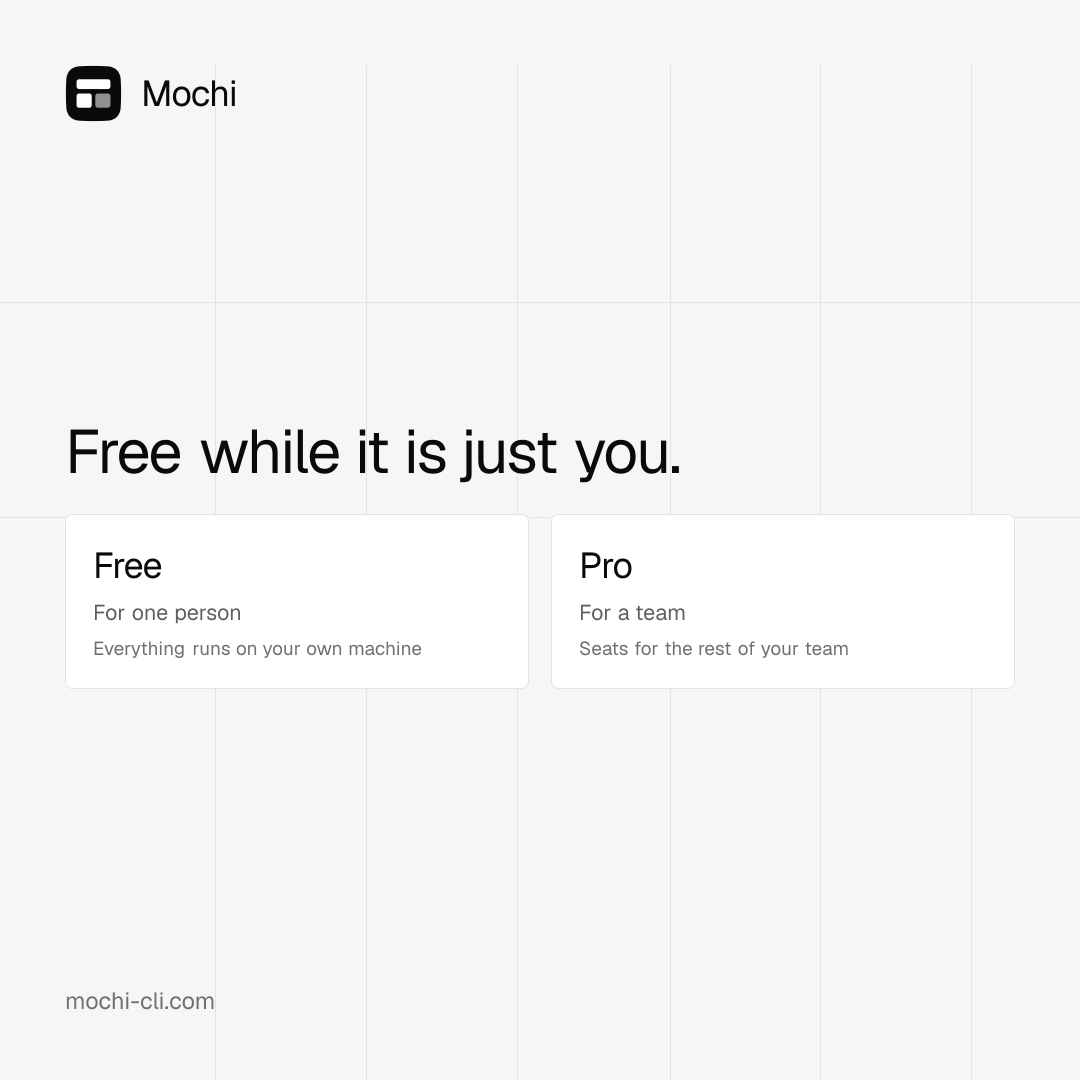
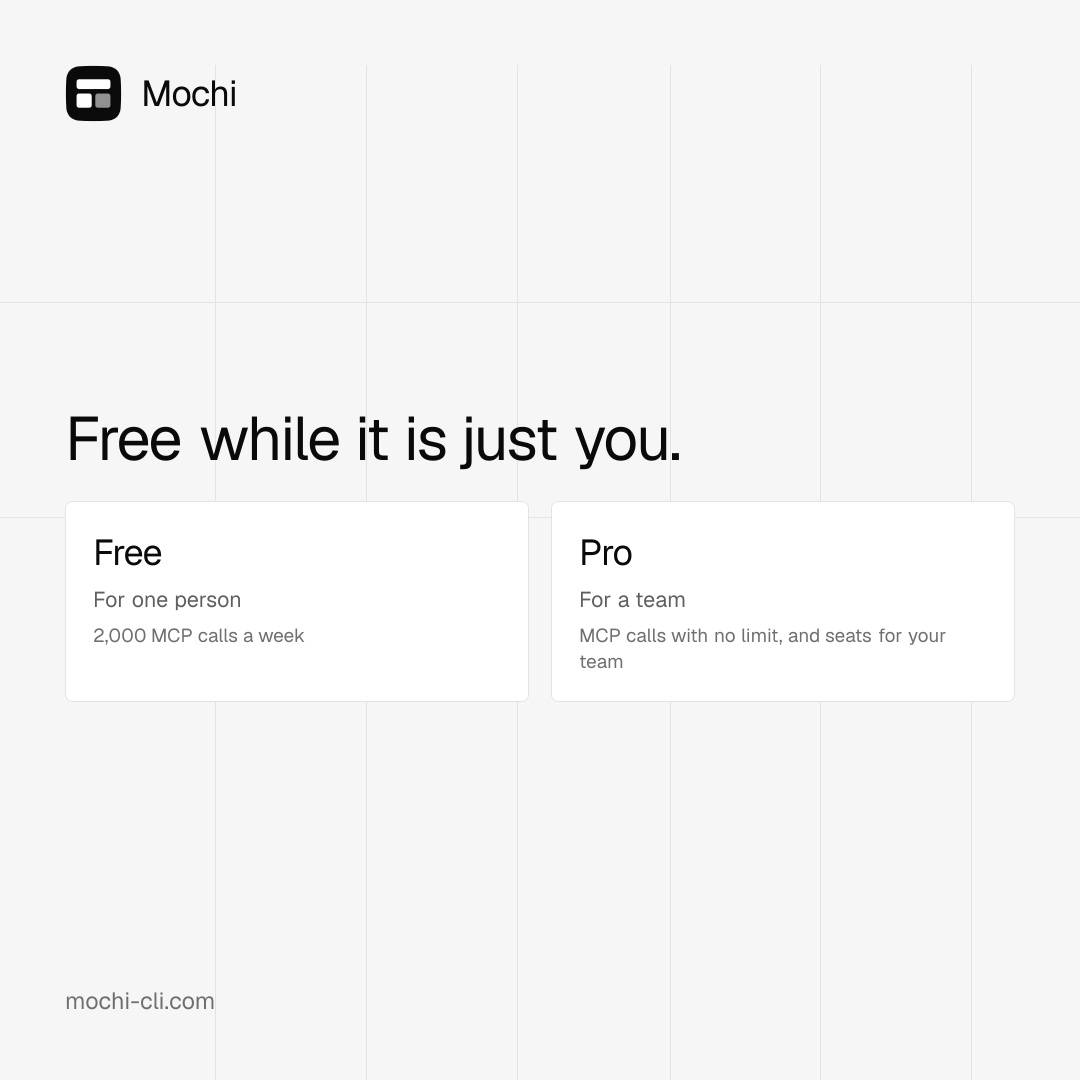
Say on the pricing what actually separates Free from Pro
The plans read as though the only difference was other people, which is not
what the product enforces. The app meters MCP calls: PLAN_LIMITS in
entitlement.ts is 2,000 a week on free and null — no limit — on pro. That is
the line that decides which plan somebody is on, and it was nowhere on the
page.

It now leads both feature lists, and the section subtitle names the figure
rather than implying everything is free without qualification. Same on the
film's closing card and the pricing poster, all in step because they read
the same numbers.

The figure is the app's, not one invented for the page. If the limit moves
in entitlement.ts, these strings have to move with it.

Written for all seven locales.

Changed region(s): [[0.0611, 0.3667, 0.6417, 0.4583], [0.5194, 0.4889, 0.8861, 0.6417], [0.0917, 0.4889, 0.3972, 0.6111]]

diff --git a/src/lib/i18n.ts b/src/lib/i18n.ts
@@ -479,7 +479,7 @@ const en: Messages = {
   },
   price: {
     title: "Free while it is just you",
-    sub: "Everything on this page works without paying. Pro is for when other people need to be in there with you.",
+    sub: "Everything on this page works without paying, up to 2,000 MCP calls a week. Pro lifts that limit and adds seats for the rest of your team.",
     free: "Free",
     perMonth: "per month",
     perYear: "per year",
@@ -487,8 +487,8 @@ const en: Messages = {
     soon: "Coming soon",
     note: "Billed through Polar. Cancel whenever you like, and your data stays on your machine either way.",
     plans: [
-      { tagline: "For one person", features: ["Everything runs on your own machine", "As many workspaces and tables as you like", "Full history, and undo that goes back", "Connect Claude, Codex or OpenCode"] },
-      { tagline: "For a team", features: ["Everything in Free", "Seats for the rest of your team", "Shared workspaces that stay in step", "Email support"] },
+      { tagline: "For one person", features: ["2,000 MCP calls a week", "Everything runs on your own machine", "As many workspaces and tables as you like", "Full history, and undo that goes back", "Connect Claude, Codex or OpenCode"] },
+      { tagline: "For a team", features: ["MCP calls with no limit", "Everything in Free", "Seats for the rest of your team", "Shared workspaces that stay in step", "Email support"] },
     ],
   },
   cta: { title: "Ready to get your data in order?", sub: "Download Mochi and start in about a minute. Nothing to set up, nothing to sign up for.", button: "Get started →" },
@@ -825,7 +825,7 @@ const es: Messages = {
   },
   price: {
     title: "Gratis mientras seas tú solo",
-    sub: "Todo lo de esta página funciona sin pagar. Pro es para cuando otras personas tienen que estar dentro contigo.",
+    sub: "Todo lo de esta página funciona sin pagar, hasta 2.000 llamadas MCP por semana. Pro quita ese límite y añade plazas para el resto del equipo.",
     free: "Gratis",
     perMonth: "al mes",
     perYear: "al año",
@@ -833,8 +833,8 @@ const es: Messages = {
     soon: "Muy pronto",
     note: "Se cobra a través de Polar. Cancela cuando quieras: tus datos se quedan en tu máquina de todas formas.",
     plans: [
-      { tagline: "Para una persona", features: ["Todo funciona en tu propio ordenador", "Tantos espacios y tablas como quieras", "Historial completo, y deshacer que llega lejos", "Conecta Claude, Codex u OpenCode"] },
-      { tagline: "Para un equipo", features: ["Todo lo de Gratis", "Plazas para el resto del equipo", "Espacios compartidos que van al día", "Soporte por correo"] },
+      { tagline: "Para una persona", features: ["2.000 llamadas MCP por semana", "Todo funciona en tu propio ordenador", "Tantos espacios y tablas como quieras", "Historial completo, y deshacer que llega lejos", "Conecta Claude, Codex u OpenCode"] },
+      { tagline: "Para un equipo", features: ["Llamadas MCP sin límite", "Todo lo de Gratis", "Plazas para el resto del equipo", "Espacios compartidos que van al día", "Soporte por correo"] },
     ],
   },
   cta: { title: "¿Listo para ordenar tus datos?", sub: "Descarga Mochi y empieza en un minuto. Nada que configurar, nada que registrar.", button: "Empezar →" },
@@ -1171,7 +1171,7 @@ const fr: Messages = {
   },
   price: {
     title: "Gratuit tant que vous êtes seul",
-    sub: "Tout ce que montre cette page marche sans payer. Pro sert quand d'autres personnes doivent y être avec vous.",
+    sub: "Tout ce que montre cette page marche sans payer, jusqu'à 2 000 appels MCP par semaine. Pro lève cette limite et ajoute des places pour le reste de l'équipe.",
     free: "Gratuit",
     perMonth: "par mois",
     perYear: "par an",
@@ -1179,8 +1179,8 @@ const fr: Messages = {
     soon: "Bientôt",
     note: "Facturé via Polar. Annulez quand vous voulez : vos données restent sur votre machine dans tous les cas.",
     plans: [
-      { tagline: "Pour une personne", features: ["Tout tourne sur votre propre ordinateur", "Autant d'espaces et de tables que vous voulez", "Historique complet, et un retour arrière qui remonte loin", "Connectez Claude, Codex ou OpenCode"] },
-      { tagline: "Pour une équipe", features: ["Tout ce qu'il y a dans Gratuit", "Des places pour le reste de l'équipe", "Des espaces partagés qui restent d'accord", "Assistance par e-mail"] },
+      { tagline: "Pour une personne", features: ["2 000 appels MCP par semaine", "Tout tourne sur votre propre ordinateur", "Autant d'espaces et de tables que vous voulez", "Historique complet, et un retour arrière qui remonte loin", "Connectez Claude, Codex ou OpenCode"] },
+      { tagline: "Pour une équipe", features: ["Appels MCP sans limite", "Tout ce qu'il y a dans Gratuit", "Des places pour le reste de l'équipe", "Des espaces partagés qui restent d'accord", "Assistance par e-mail"] },
     ],
   },
   cta: { title: "Prêt à remettre vos données en ordre ?", sub: "Téléchargez Mochi et commencez en une minute. Rien à configurer, aucun compte à créer.", button: "Commencer →" },
@@ -1517,7 +1517,7 @@ const de: Messages = {
   },
   price: {
     title: "Kostenlos, solange du allein bist",
-    sub: "Alles auf dieser Seite funktioniert ohne zu zahlen. Pro ist für den Moment, in dem andere mit dabei sein müssen.",
+    sub: "Alles auf dieser Seite funktioniert ohne zu zahlen, bis zu 2.000 MCP-Aufrufe pro Woche. Pro hebt diese Grenze auf und bringt Plätze für den Rest des Teams.",
     free: "Kostenlos",
     perMonth: "pro Monat",
     perYear: "pro Jahr",
@@ -1525,8 +1525,8 @@ const de: Messages = {
     soon: "Bald",
     note: "Abrechnung über Polar. Jederzeit kündbar, und deine Daten bleiben so oder so auf deinem Rechner.",
     plans: [
-      { tagline: "Für eine Person", features: ["Alles läuft auf deinem eigenen Rechner", "So viele Bereiche und Tabellen, wie du willst", "Vollständiger Verlauf, und ein Rückgängig, das weit zurückreicht", "Verbinde Claude, Codex oder OpenCode"] },
-      { tagline: "Für ein Team", features: ["Alles aus Kostenlos", "Plätze für den Rest des Teams", "Geteilte Bereiche, die beisammen bleiben", "Support per E-Mail"] },
+      { tagline: "Für eine Person", features: ["2.000 MCP-Aufrufe pro Woche", "Alles läuft auf deinem eigenen Rechner", "So viele Bereiche und Tabellen, wie du willst", "Vollständiger Verlauf, und ein Rückgängig, das weit zurückreicht", "Verbinde Claude, Codex oder OpenCode"] },
+      { tagline: "Für ein Team", features: ["MCP-Aufrufe ohne Limit", "Alles aus Kostenlos", "Plätze für den Rest des Teams", "Geteilte Bereiche, die beisammen bleiben", "Support per E-Mail"] },
     ],
   },
   cta: { title: "Bereit, Ordnung in deine Daten zu bringen?", sub: "Lade Mochi und leg in etwa einer Minute los. Nichts einzurichten, nichts anzumelden.", button: "Loslegen →" },
@@ -1863,7 +1863,7 @@ const ja: Messages = {
   },
   price: {
     title: "ひとりのうちは無料です",
-    sub: "このページにあることは、払わなくても全部できます。Pro は、ほかの人もいっしょに入る必要が出てきたときのものです。",
+    sub: "このページにあることは、MCP 呼び出し週 2,000 回まで、払わなくても全部できます。Pro はその上限をなくし、チームの人数ぶんの席を足します。",
     free: "無料",
     perMonth: "月あたり",
     perYear: "年あたり",
@@ -1871,8 +1871,8 @@ const ja: Messages = {
     soon: "近日公開",
     note: "支払いは Polar 経由です。いつでも解約でき、どちらにしてもデータはあなたのパソコンに残ります。",
     plans: [
-      { tagline: "ひとり用", features: ["すべて自分のパソコンで動きます", "ワークスペースもテーブルも好きなだけ", "完全な履歴と、さかのぼれる取り消し", "Claude・Codex・OpenCode をつなげます"] },
-      { tagline: "チーム用", features: ["無料プランのすべて", "チームの人数ぶんの席", "ずれない共有ワークスペース", "メールサポート"] },
+      { tagline: "ひとり用", features: ["MCP 呼び出しは週 2,000 回まで", "すべて自分のパソコンで動きます", "ワークスペースもテーブルも好きなだけ", "完全な履歴と、さかのぼれる取り消し", "Claude・Codex・OpenCode をつなげます"] },
+      { tagline: "チーム用", features: ["MCP 呼び出しは無制限", "無料プランのすべて", "チームの人数ぶんの席", "ずれない共有ワークスペース", "メールサポート"] },
     ],
   },
   cta: { title: "データを整理する準備はできましたか", sub: "Mochi をダウンロードすれば一分ほどで始められます。設定も登録もいりません。", button: "はじめる →" },
@@ -2209,7 +2209,7 @@ const zh: Messages = {
   },
   price: {
     title: "一个人用，一直免费",
-    sub: "这一页上的东西不花钱就能全用。Pro 是给需要别人一起进来的时候准备的。",
+    sub: "这一页上的东西不花钱就能全用，每周 2,000 次 MCP 调用以内。Pro 取消这个上限，并为团队其他人加席位。",
     free: "免费",
     perMonth: "每月",
     perYear: "每年",
@@ -2217,8 +2217,8 @@ const zh: Messages = {
     soon: "即将推出",
     note: "通过 Polar 收款。随时可以取消，无论如何数据都留在你自己的电脑上。",
     plans: [
-      { tagline: "一个人用", features: ["全部在你自己的电脑上运行", "工作区和表想建多少建多少", "完整历史，撤销能一直往回退", "接上 Claude、Codex 或 OpenCode"] },
-      { tagline: "团队用", features: ["免费版的全部", "给团队其他人的席位", "共享工作区，始终一致", "邮件支持"] },
+      { tagline: "一个人用", features: ["每周 2,000 次 MCP 调用", "全部在你自己的电脑上运行", "工作区和表想建多少建多少", "完整历史，撤销能一直往回退", "接上 Claude、Codex 或 OpenCode"] },
+      { tagline: "团队用", features: ["MCP 调用不限次数", "免费版的全部", "给团队其他人的席位", "共享工作区，始终一致", "邮件支持"] },
     ],
   },
   cta: { title: "准备好把数据理一理了吗？", sub: "下载 Mochi，大概一分钟就能开始。不用配置，也不用注册。", button: "开始使用 →" },
@@ -2555,7 +2555,7 @@ const vi: Messages = {
   },
   price: {
     title: "Một mình thì miễn phí",
-    sub: "Mọi thứ trên trang này dùng không mất tiền. Pro dành cho lúc cần thêm người khác cùng vào.",
+    sub: "Mọi thứ trên trang này dùng không mất tiền, trong 2.000 lượt gọi MCP mỗi tuần. Pro bỏ giới hạn đó và thêm chỗ cho những người còn lại trong nhóm.",
     free: "Miễn phí",
     perMonth: "mỗi tháng",
     perYear: "mỗi năm",
@@ -2563,8 +2563,8 @@ const vi: Messages = {
     soon: "Sắp có",
     note: "Thanh toán qua Polar. Huỷ lúc nào cũng được, và dù thế nào dữ liệu vẫn nằm trên máy bạn.",
     plans: [
-      { tagline: "Cho một người", features: ["Mọi thứ chạy trên máy của bạn", "Bao nhiêu workspace và bảng tuỳ bạn", "Lịch sử đầy đủ, hoàn tác lùi được xa", "Nối Claude, Codex hay OpenCode"] },
-      { tagline: "Cho cả nhóm", features: ["Toàn bộ bản Miễn phí", "Chỗ ngồi cho những người còn lại", "Workspace dùng chung luôn khớp nhau", "Hỗ trợ qua email"] },
+      { tagline: "Cho một người", features: ["2.000 lượt gọi MCP mỗi tuần", "Mọi thứ chạy trên máy của bạn", "Bao nhiêu workspace và bảng tuỳ bạn", "Lịch sử đầy đủ, hoàn tác lùi được xa", "Nối Claude, Codex hay OpenCode"] },
+      { tagline: "Cho cả nhóm", features: ["Gọi MCP không giới hạn", "Toàn bộ bản Miễn phí", "Chỗ ngồi cho những người còn lại", "Workspace dùng chung luôn khớp nhau", "Hỗ trợ qua email"] },
     ],
   },
   cta: { title: "Sẵn sàng dọn lại dữ liệu chưa?", sub: "Tải Mochi về và bắt đầu trong khoảng một phút. Không phải cài đặt, không phải đăng ký.", button: "Bắt đầu →" },

diff --git a/src/components/promo/scenes.tsx b/src/components/promo/scenes.tsx
@@ -528,18 +528,20 @@ export function Compare({ p }: { p: number }) {
 
 /* ─── the offer ───────────────────────────────────────────────────────────── */
 
+/* The MCP call allowance leads both lists, because it is the line that decides
+   which plan someone is on. The figures are PLAN_LIMITS in the app itself. */
 const PLANS: [string, string, string[]][] = [
   ["Free", "For one person", [
+    "2,000 MCP calls a week",
     "Everything runs on your own machine",
-    "As many workspaces and tables as you like",
     "Full history, and undo that goes back",
     "Connect Claude, Codex or OpenCode",
   ]],
   ["Pro", "For a team", [
+    "MCP calls with no limit",
     "Everything in Free",
     "Seats for the rest of your team",
     "Shared workspaces that stay in step",
-    "Email support",
   ]],
 ];
 

diff --git a/src/components/Poster.tsx b/src/components/Poster.tsx
@@ -354,8 +354,8 @@ export function Poster({ variant, size }: { variant: VariantName; size: SizeName
             {heading("Free while it is just you.", 0.8)}
             <div style={{ display: "flex", flexDirection: tall ? "column" : "row", gap: 24 * k }}>
               {[
-                ["Free", "For one person", "Everything runs on your own machine"],
-                ["Pro", "For a team", "Seats for the rest of your team"],
+                ["Free", "For one person", "2,000 MCP calls a week"],
+                ["Pro", "For a team", "MCP calls with no limit, and seats for your team"],
               ].map(([name, tagline, note]) => (
                 <div
                   key={name}
